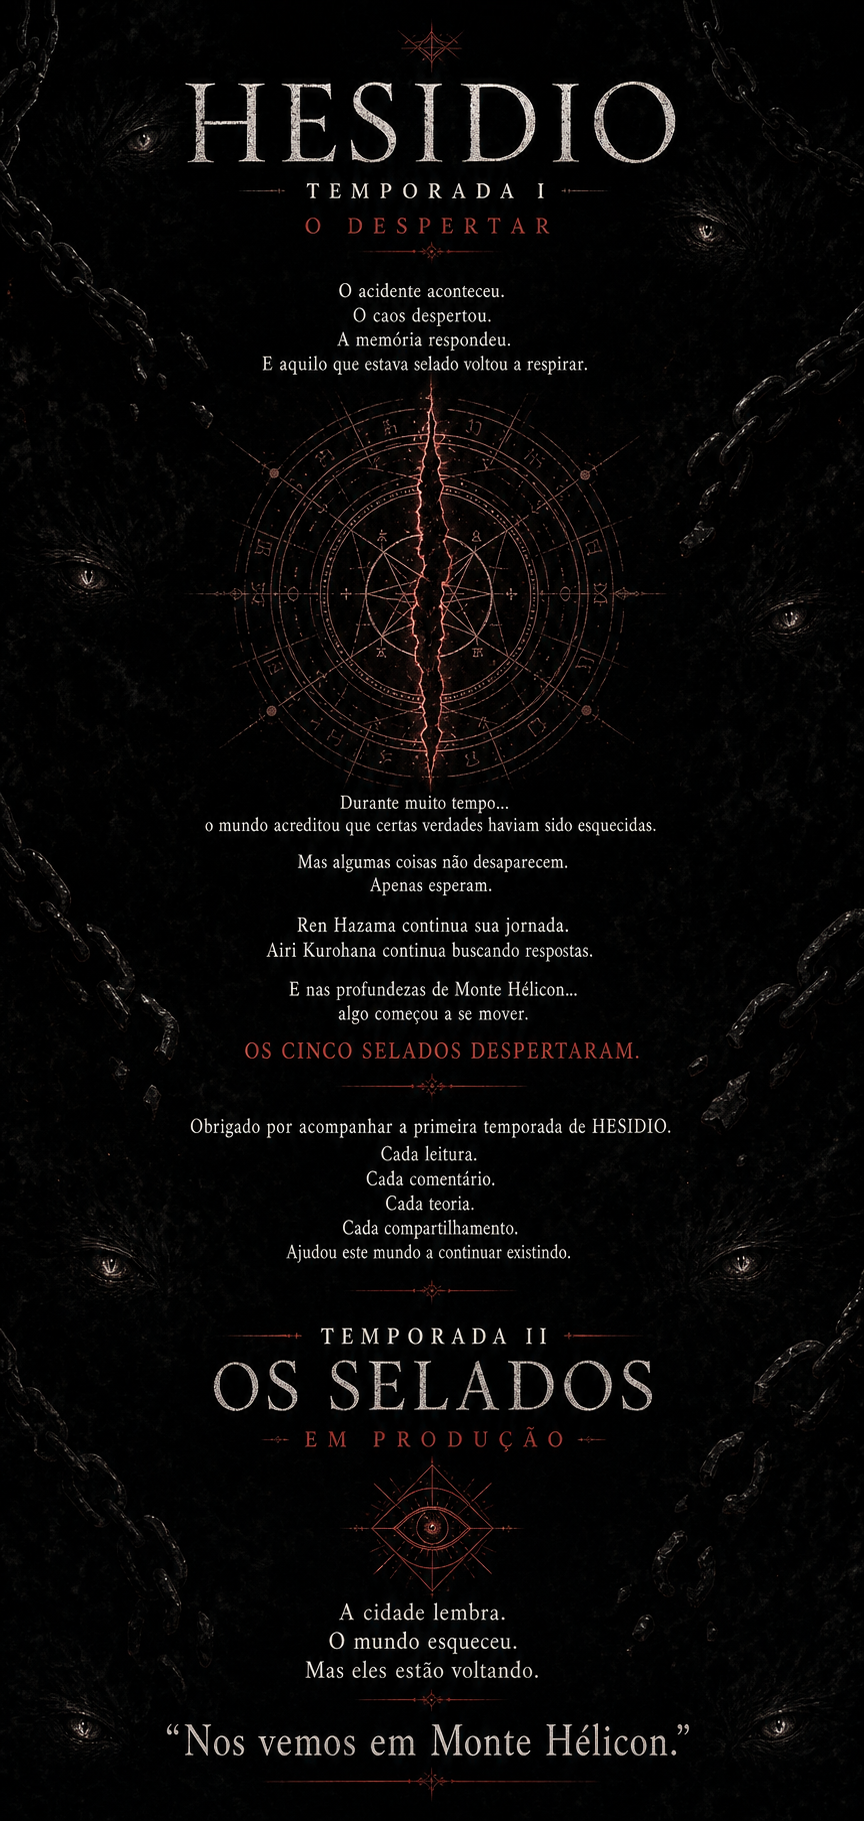
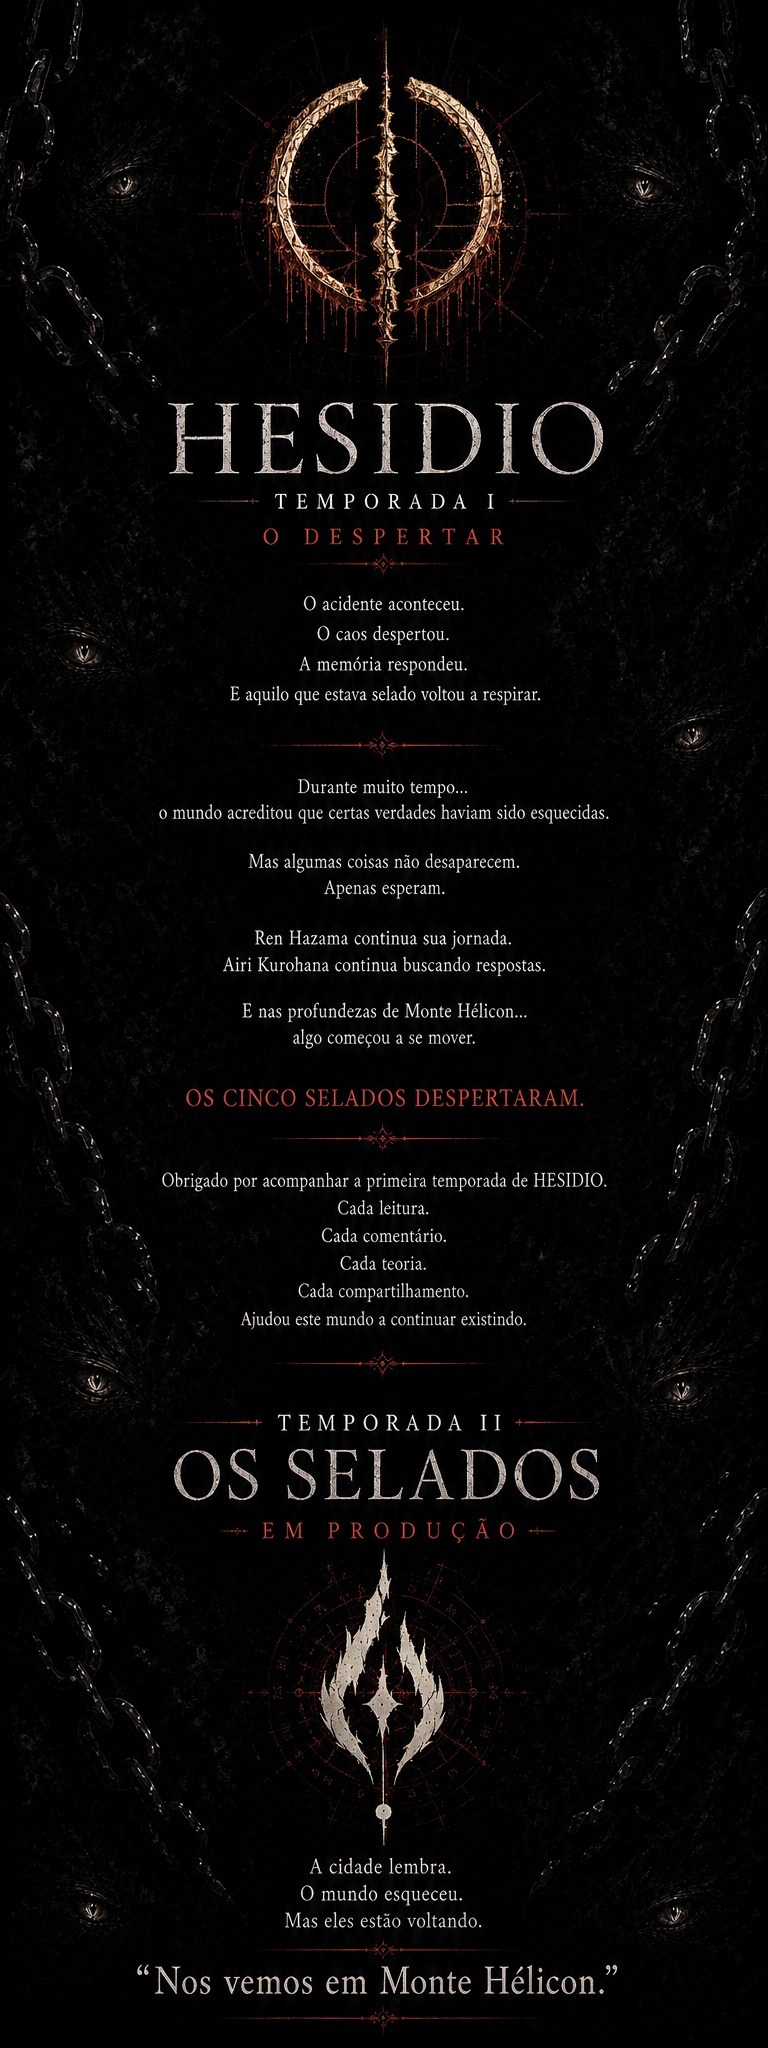
Corrige menu portfolio e imagem final do EP12

diff --git a/hesidio/index.html b/hesidio/index.html
@@ -27,7 +27,8 @@
     <div class="container nav">
       <a href="/" class="brand" aria-label="TalkGlobal Studios"><img src="/public/studios/hesidio-logo-site.png" alt="" width="38" height="38"><span>TalkGlobal Studios</span></a>
       <nav class="menu" aria-label="Navegação principal">
-        <a href="/">Home</a><a href="/hesidio/">HESIDIO</a><a href="/manga/">Episódios</a><a href="/blog/">Artigos</a><a href="/hesidio/#personagens">Personagens/Lore</a><a href="/cartas/">Cartas Colecionáveis</a><a href="/sobre.html">Sobre</a><a href="/contato.html">Contato</a>
+        <a href="/">Home</a><a href="/hesidio/">HESIDIO</a><a href="/manga/">Episódios</a><a href="/blog/">Artigos</a><a href="/hesidio/#personagens">Personagens/Lore</a><a href="/cartas/">Cartas Colecionáveis</a>
+        <a href="/portfolio/">PORTFÓLIO</a><a href="/sobre.html">Sobre</a><a href="/contato.html">Contato</a>
       </nav>
     </div>
   </header>

diff --git a/manga/episodios/ep-12/index.html b/manga/episodios/ep-12/index.html
@@ -133,7 +133,7 @@
     </figure>
 
     <figure class="manga-page" oncontextmenu="return false">
-      <img src="/public/manga/episodios/ep-12/images/019.png?v=season-finale-corrected-20260610" alt="HESIDIO EP 12 - página 019" draggable="false" loading="lazy" decoding="async">
+      <img src="/public/manga/episodios/ep-12/images/019.png?v=season-finale-corrected-20260610-v2" alt="HESIDIO EP 12 - página 019" draggable="false" loading="eager" decoding="async">
       <span class="page-mark"><strong>HESIDIO</strong><small>@hesidio</small></span>
     </figure>
 

diff --git a/blog/index.html b/blog/index.html
@@ -43,6 +43,7 @@
         <a href="/blog/">Artigos</a>
         <a href="/hesidio/#personagens">Personagens/Lore</a>
         <a href="/cartas/">Cartas Colecionáveis</a>
+        <a href="/portfolio/">PORTFÓLIO</a>
         <a href="/sobre.html">Sobre</a>
         <a href="/contato.html">Contato</a>
       </nav>

diff --git a/cartas/index.html b/cartas/index.html
@@ -44,6 +44,7 @@
         <a href="/blog/">Artigos</a>
         <a href="/hesidio/#personagens">Personagens/Lore</a>
         <a href="/cartas/">Cartas Colecionáveis</a>
+        <a href="/portfolio/">PORTFÓLIO</a>
         <a href="/sobre.html">Sobre</a>
         <a href="/contato.html">Contato</a>
       </nav>

diff --git a/contato.html b/contato.html
@@ -39,6 +39,7 @@
         <a href="/blog/">Artigos</a>
         <a href="/hesidio/#personagens">Personagens/Lore</a>
         <a href="/cartas/">Cartas Colecionáveis</a>
+        <a href="/portfolio/">PORTFÓLIO</a>
         <a href="/sobre.html">Sobre</a>
         <a href="/contato.html">Contato</a>
       </nav>

diff --git a/copyright.html b/copyright.html
@@ -39,6 +39,7 @@
         <a href="/blog/">Artigos</a>
         <a href="/hesidio/#personagens">Personagens/Lore</a>
         <a href="/cartas/">Cartas Colecionáveis</a>
+        <a href="/portfolio/">PORTFÓLIO</a>
         <a href="/sobre.html">Sobre</a>
         <a href="/contato.html">Contato</a>
       </nav>

diff --git a/index.html b/index.html
@@ -44,6 +44,7 @@
         <a href="/blog/">Artigos</a>
         <a href="/hesidio/#personagens">Personagens/Lore</a>
         <a href="/cartas/">Cartas Colecionáveis</a>
+        <a href="/portfolio/">PORTFÓLIO</a>
         <a href="/sobre.html">Sobre</a>
         <a href="/contato.html">Contato</a>
       </nav>

diff --git a/manga/index.html b/manga/index.html
@@ -41,6 +41,7 @@
       <a href="/blog/">Artigos</a>
       <a href="/hesidio/#personagens">Personagens/Lore</a>
       <a href="/cartas/">Cartas Colecionáveis</a>
+        <a href="/portfolio/">PORTFÓLIO</a>
       <a href="/sobre.html">Sobre</a>
       <a href="/contato.html">Contato</a>
     </nav>

diff --git a/politica-editorial.html b/politica-editorial.html
@@ -39,6 +39,7 @@
         <a href="/blog/">Artigos</a>
         <a href="/hesidio/#personagens">Personagens/Lore</a>
         <a href="/cartas/">Cartas Colecionáveis</a>
+        <a href="/portfolio/">PORTFÓLIO</a>
         <a href="/sobre.html">Sobre</a>
         <a href="/contato.html">Contato</a>
       </nav>

diff --git a/privacy.html b/privacy.html
@@ -39,6 +39,7 @@
         <a href="/blog/">Artigos</a>
         <a href="/hesidio/#personagens">Personagens/Lore</a>
         <a href="/cartas/">Cartas Colecionáveis</a>
+        <a href="/portfolio/">PORTFÓLIO</a>
         <a href="/sobre.html">Sobre</a>
         <a href="/contato.html">Contato</a>
       </nav>

diff --git a/sobre.html b/sobre.html
@@ -39,6 +39,7 @@
         <a href="/blog/">Artigos</a>
         <a href="/hesidio/#personagens">Personagens/Lore</a>
         <a href="/cartas/">Cartas Colecionáveis</a>
+        <a href="/portfolio/">PORTFÓLIO</a>
         <a href="/sobre.html">Sobre</a>
         <a href="/contato.html">Contato</a>
       </nav>

diff --git a/terms.html b/terms.html
@@ -39,6 +39,7 @@
         <a href="/blog/">Artigos</a>
         <a href="/hesidio/#personagens">Personagens/Lore</a>
         <a href="/cartas/">Cartas Colecionáveis</a>
+        <a href="/portfolio/">PORTFÓLIO</a>
         <a href="/sobre.html">Sobre</a>
         <a href="/contato.html">Contato</a>
       </nav>